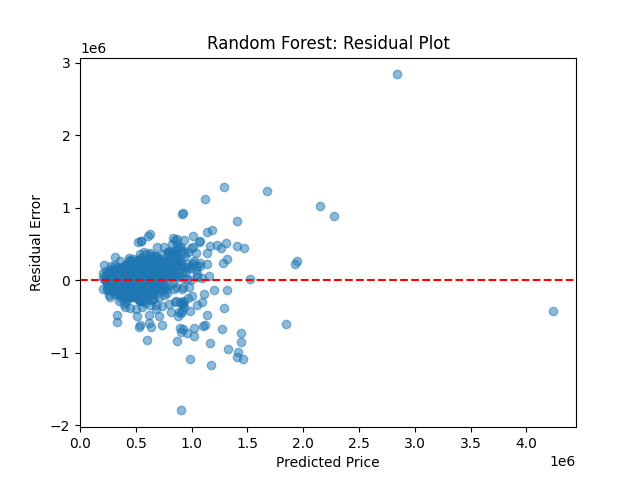
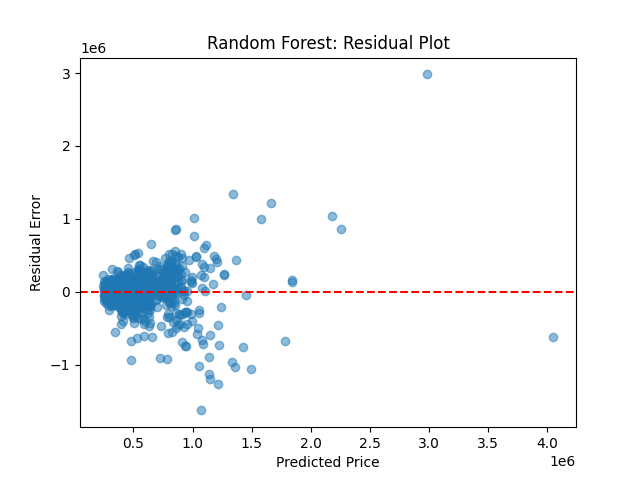
update decision tree and random forest placeholder

diff --git a/random_forest.py b/random_forest.py
@@ -18,17 +18,41 @@ class RandomForest(Model):
         )
 
     def train(self, dataset):
+        # Convert dict to list in correct order
+        if hasattr(dataset, "feature_names"):
+            self.feature_names = [dataset.feature_names[i] for i in range(len(dataset.feature_names))]
+        else:
+            self.feature_names = None
         self.model.fit(dataset.x, dataset.y)
+
 
     def evaluate(self, dataset):
         return self.model.predict(dataset.x)
+
+    def plot_feature_importance(self):
+        if self.feature_names is None:
+            print("No feature names provided.")
+            return
+        importances = self.model.feature_importances_
+        indices = np.argsort(importances)[::-1]
+        names = [self.feature_names[i] for i in indices]
+
+        plt.figure(figsize=(10,6))
+        plt.bar(range(len(importances)), importances[indices])
+        plt.xticks(range(len(importances)), names, rotation=90)
+        plt.xlabel("Features")
+        plt.ylabel("Importance")
+        plt.title("Random Forest Feature Importance")
+        plt.tight_layout()
+        plt.savefig(os.path.join(IMG_DIR, "feature_importance.png"))
+        plt.close()
 
 
 def main():
     train_dataset = HousingDataset(mode="train")
     test_dataset = HousingDataset(mode="test")
 
-    rf = RandomForest(n_estimators=200, max_depth=20, seed=123)
+    rf = RandomForest(n_estimators=200, max_depth=7, seed=123)
     rf.train(train_dataset)
 
     # Predictions
@@ -38,7 +62,9 @@ def main():
     print("Train MSE:", mse(y_train_pred, train_dataset.y))
     print("Test MSE:", mse(y_test_pred, test_dataset.y))
 
-
+    # --------------------------
+    # Prediction vs Truth Plot
+    # --------------------------
     y_true_test = test_dataset.y * test_dataset.y_div_factor
     y_pred_test = y_test_pred * test_dataset.y_div_factor
 
@@ -47,13 +73,16 @@ def main():
 
     plt.figure()
     plt.scatter(y_true_test[mask], y_pred_test[mask], alpha=0.5)
-    plt.plot([low, high], [low, high], 'r--')  # y=x reference line
+    plt.plot([low, high], [low, high], 'r--')
     plt.xlabel("True Price")
     plt.ylabel("Predicted Price")
     plt.title("Random Forest: Prediction vs Ground Truth (98% clipped)")
     plt.savefig(os.path.join(IMG_DIR, "prediction_vs_truth.png"))
     plt.close()
 
+    # --------------------------
+    # Residual Plot
+    # --------------------------
     residuals = y_test_pred - test_dataset.y
     plt.figure()
     plt.scatter(y_pred_test, residuals * test_dataset.y_div_factor, alpha=0.5)
@@ -63,6 +92,11 @@ def main():
     plt.title("Random Forest: Residual Plot")
     plt.savefig(os.path.join(IMG_DIR, "residuals.png"))
     plt.close()
+
+    # --------------------------
+    # Feature Importance Plot
+    # --------------------------
+    rf.plot_feature_importance()
 
 
 if __name__ == "__main__":

diff --git a/decision_tree.py b/decision_tree.py
@@ -14,12 +14,33 @@ class DecisionTree(Model):
     def __init__(self, max_depth=None):
         self.max_depth = max_depth
         self.model = DecisionTreeRegressor(max_depth=self.max_depth, random_state=123)
+        self.feature_names = None
 
     def train(self, dataset):
+        if hasattr(dataset, "feature_names"):
+            self.feature_names = dataset.feature_names
         self.model.fit(dataset.x, dataset.y)
 
-    def evaluate(self, data):
-        return self.model.predict(data.x)
+    def evaluate(self, dataset):
+        return self.model.predict(dataset.x)
+
+    def plot_feature_importance(self):
+        if self.feature_names is None:
+            print("No feature names provided.")
+            return
+        importances = self.model.feature_importances_
+        indices = np.argsort(importances)[::-1]
+        names = [self.feature_names[i] for i in indices]
+
+        plt.figure(figsize=(10,6))
+        plt.bar(range(len(importances)), importances[indices])
+        plt.xticks(range(len(importances)), names, rotation=90)
+        plt.xlabel("Features")
+        plt.ylabel("Importance")
+        plt.title("Decision Tree Feature Importance")
+        plt.tight_layout()
+        plt.savefig(os.path.join(IMG_DIR, "feature_importance.png"))
+        plt.close()
 
 
 def main():
@@ -42,13 +63,13 @@ def main():
     y_true_test = test_dataset.y * test_dataset.y_div_factor
     y_pred_test = y_test_pred * test_dataset.y_div_factor
 
-    # Clip outliers (keep central 98%)
+    # Clip outliers (central 98%)
     low, high = np.percentile(y_true_test, [1, 99])
     mask = (y_true_test >= low) & (y_true_test <= high)
 
     plt.figure()
     plt.scatter(y_true_test[mask], y_pred_test[mask], alpha=0.5)
-    plt.plot([low, high], [low, high], 'r')  # y=x reference line
+    plt.plot([low, high], [low, high], 'r--')  # y=x reference line
     plt.xlabel("True Price")
     plt.ylabel("Predicted Price")
     plt.title("Decision Tree: Prediction vs Ground Truth (98% clipped)")
@@ -61,12 +82,17 @@ def main():
     residuals = y_test_pred - test_dataset.y
     plt.figure()
     plt.scatter(y_pred_test, residuals * test_dataset.y_div_factor, alpha=0.5)
-    plt.axhline(0, color='r')
+    plt.axhline(0, color='r', linestyle='--')
     plt.xlabel("Predicted Price")
     plt.ylabel("Residual Error")
     plt.title("Decision Tree: Residual Plot")
     plt.savefig(os.path.join(IMG_DIR, "residuals.png"))
     plt.close()
+
+    # --------------------------
+    # Feature Importance Plot
+    # --------------------------
+    tree.plot_feature_importance()
 
 
 if __name__ == "__main__":

diff --git a/dataset.py b/dataset.py
@@ -3,12 +3,16 @@ from typing import Literal
 import numpy as np
 
 class HousingDataset:
-    def __init__(self, mode: Literal['train','test']='train',seed = 123):
+    def __init__(self, mode: Literal['train','test']='train', seed=123):
         self.y_div_factor = 1000000.0
         np.random.seed(seed)
+
         with open('dataset/data.csv', 'r') as file:
             reader = csv.reader(file)
             header = next(reader)
+
+            # Store feature names (exclude Id and SalePrice)
+            self.feature_names = header[2:-4]
 
             x, y = [], []
             for row in reader:
@@ -24,6 +28,7 @@ class HousingDataset:
         x = np.array([[to_float(v) for v in row] for row in x], dtype=np.float64)
         y = np.array([float(v) for v in y], dtype=np.float64) / self.y_div_factor
 
+        # Shuffle dataset
         idx = np.random.permutation(len(x))
         x, y = x[idx], y[idx]
 
@@ -46,11 +51,11 @@ class HousingDataset:
 
 def main():
     dataset = HousingDataset(mode='train')
-    print(dataset.n_features)
-    print(len(dataset.x))
-    print(dataset.x)
-    print(dataset.y)
-    
+    print("Number of features:", dataset.n_features)
+    print("Feature names:", dataset.feature_names)
+    print("Number of samples:", len(dataset.x))
+    print(dataset.x[:2])  # print first 2 samples
+    print(dataset.y[:2])
 
 if __name__ == "__main__":
     main()
